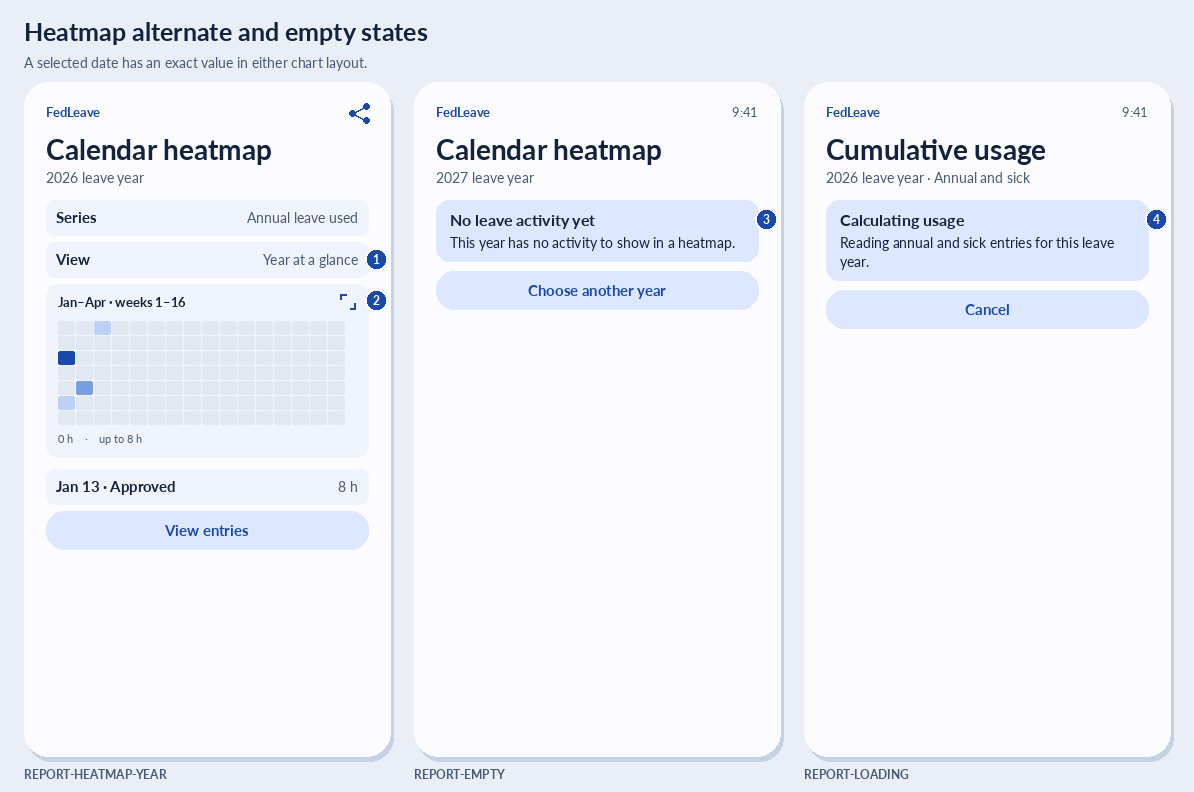
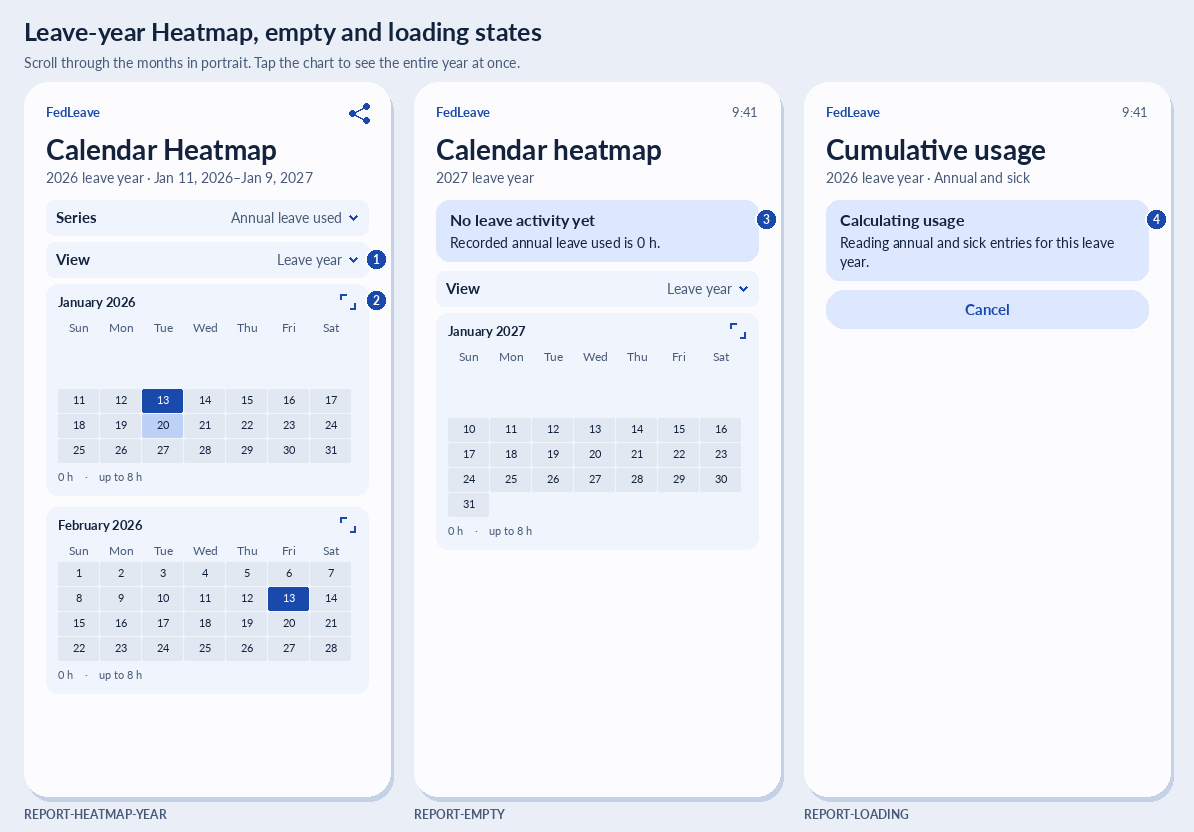
Add Analytics history mockups and full leave-year Heatmap views
Show one, six and eleven months in Seasonality and Cumulative Usage. Keep the reporting cutoff and full-year axis, and distinguish recorded zeroes from later dates and scheduled data.

Show every ledger date in one landscape Heatmap, including the partial months and following January. Use scrollable month grids in portrait, with direct landscape entry where portrait is too narrow. Add annotated views and acceptance for both 26- and 27-period years.

Verified six history examples, 10, 52 and 94 recorded hours, and a 3-hour scheduled variant against the desktop computations.

diff --git a/android/specification/artwork/mockups/render.py b/android/specification/artwork/mockups/render.py
@@ -2,6 +2,7 @@
 
 import argparse
 import json
+from datetime import date, timedelta
 from functools import lru_cache
 from pathlib import Path
 
@@ -324,9 +325,14 @@ class Screen:
         plot_height = height - 61
         values = item["values"]
         ticks = item.get("ticks")
-        scale = max(ticks or values) or 1
+        scale_values = ticks or [value for value in values if value is not None]
+        scale = max(scale_values, default=0) or 1
         if ticks:
             start = self.left + 44
+        if (cutoff := item.get("shade_after")) is not None:
+            cutoff_x = start + (end - start) * cutoff
+            self.draw.rectangle((cutoff_x, base - plot_height, end, base), fill="#E2E8F3")
+        if ticks:
             for tick in ticks:
                 tick_y = base - tick * plot_height / scale
                 self.draw.line((start, tick_y, end, tick_y), fill=LINE, width=1)
@@ -345,9 +351,14 @@ class Screen:
                     (current[0], previous[1]), current,
                 )]]
             self.draw.line(points, fill=PRIMARY, width=3, joint="curve")
+            if item.get("mark_endpoint"):
+                x, value_y = points[-1]
+                self.draw.ellipse((x - 4, value_y - 4, x + 4, value_y + 4), fill=PRIMARY, outline=SURFACE)
         else:
             step = (end - start) / len(values)
             for index, value in enumerate(values):
+                if value is None:
+                    continue
                 x = start + index * step + 5
                 selected = index == item.get("selected")
                 self.box(x, base - value * plot_height / scale, x + step - 10, base,
@@ -393,6 +404,45 @@ class Screen:
         self.text(self.left + 12, legend_y, "0 h    ·    up to 8 h", 11, MUTED)
         self.mark(item.get("note"), y + 16)
         self.cursor = legend_y + 37
+
+
+    def year_heatmap(self, item):
+        start, end = date.fromisoformat(item["start"]), date.fromisoformat(item["end"])
+        first_weekday = item.get("first_weekday", 6)
+        first_week = start - timedelta(days=(start.weekday() - first_weekday) % 7)
+        weeks = (end - first_week).days // 7 + 1
+        y = self.cursor
+        grid_left, grid_right, grid_top = self.left + 40, self.inner_right - 12, y + 45
+        week_width = (grid_right - grid_left) / weeks
+        row_height = 24
+        legend_y = grid_top + 7 * row_height + 9
+        colors = ("#E1E8F2", "#BDD1F6", "#789FDE", PRIMARY)
+        self.box(self.left, y, self.inner_right, legend_y + 22, "#F0F4FC", 12)
+        self.text(self.left + 12, y + 9, item["text"], 13, bold=True)
+        weekdays = ("Mon", "Tue", "Wed", "Thu", "Fri", "Sat", "Sun")
+        for row in range(7):
+            label = weekdays[(first_weekday + row) % 7]
+            self.text(grid_left - 8, grid_top + row * row_height + 11, label, 11, MUTED, anchor="rm")
+        for offset in range((end - start).days + 1):
+            day = start + timedelta(days=offset)
+            week, row = divmod((day - first_week).days, 7)
+            x = grid_left + week * week_width
+            cell_y = grid_top + row * row_height
+            if day == start or day.day == 1:
+                month = day.strftime("%b")
+                if day.month == 1:
+                    month = day.strftime("%b ’%y")
+                label_x = min(x + 2, grid_right - 38)
+                self.text(label_x, grid_top - 13, month, 10, MUTED, anchor="lm")
+            level = item["activity"].get(day.isoformat(), 0)
+            self.box(x, cell_y, x + week_width - 1, cell_y + row_height - 2, colors[level], 2)
+            if day.isoformat() == item["selected"]:
+                self.draw.rounded_rectangle(
+                    (x, cell_y, x + week_width - 1, cell_y + row_height - 2), 2, outline=INK, width=2,
+                )
+        self.text(self.left + 12, legend_y, "0 h    ·    up to 8 h", 11, MUTED)
+        self.mark(item.get("note"), y + 17)
+        self.cursor = legend_y + 31
 
 
 def render_board(board, font_dir, destination):

diff --git a/android/specification/chapters/03-reports-data/03-02-report-screens.md b/android/specification/chapters/03-reports-data/03-02-report-screens.md
@@ -29,17 +29,35 @@ Reports is a phone destination with a year selector and report list. Keep intera
 
 | Callout | Interaction and states | Requirements |
 | --- | --- | --- |
-| 1–2 | Heatmap offers monthly grids and the year-at-a-glance strip. Tap the chart to expand it, then select a cell to read its exact date and value. Keep the exact rows accessible from the report. | `REP-HEAT-01` |
+| 1–2 | Heatmap offers a full leave-year view and a focused month view. Tap the chart to expand it, then select a cell to read its exact date and value. Keep the exact rows accessible from the report. | `REP-HEAT-01` |
 | 3 | List or select multiple absence categories. View exact cumulative daily entries. Preserve the whole-year extent and show the time context. | `REP-CUM-01` |
 | 4 | Choose from the six balance series. A period point label includes its end date and balance. The exact table is navigable independently of the chart. | `REP-CHART-01` |
 | 5–6 | Keep the selected month and day visible and list the date actually mapped into each comparison year. Provide the seven supported category choices. | `REP-YOY-01` |
 
-![Year-at-a-glance heatmap, an empty report, and a calculation with cancel](../../artwork/mockups/reports-heatmap-states.png)
+![Portrait leave-year Heatmap with multiple months, a zero-activity year, and a calculation with cancel](../../artwork/mockups/reports-heatmap-states.png)
 
 | Callout | Interaction and states | Requirements |
 | --- | --- | --- |
-| 1–2 | The full-year strip scrolls horizontally on compact phones with a spoken week and date. The example shows its first viewport. Both layouts provide the same data and details. | `REP-HEAT-01` |
-| 3–4 | Distinguish no activity from a read problem and offer another year. Cancel a pending calculation without clearing the selected categories. Older results cannot overwrite the current selection. | `REP-SUM-01`, `REP-HEAT-01`, `REP-CUM-01` |
+| 1–2 | The portrait leave-year view scrolls through month grids. The example shows January and February. Tap a month grid to open the full-year landscape layout. | `REP-HEAT-01` |
+| 3–4 | A validated year with zero activity still shows its dates. A read problem uses the unavailable state. Cancel a pending calculation without clearing the selected categories. Older results cannot overwrite the current selection. | `REP-SUM-01`, `REP-HEAT-01`, `REP-CUM-01` |
+
+### Entire leave year in the Heatmap
+
+![Landscape Heatmap with every day from January 11, 2026 to January 9, 2027 visible and the last day selected](../../artwork/mockups/reports-heatmap-year-landscape.png)
+
+| Callout | Interaction |
+| --- | --- |
+| 1 | Back returns to the original report or portrait Heatmap. Preserve the selected year, series, date and scroll position. |
+| 2 | Show one cell for each day in the selected leave year, including the first and last days. Columns are weeks and rows are weekdays, respecting the user's first-weekday setting. The full-width grid shows all weeks at once on a supported landscape phone. Label month boundaries, including the year where January appears twice. |
+| 3 | Tapping a cell shows its exact calendar date and hours. **Choose date** provides a standard Android date picker with a 48 dp target for precise selection. **View entries** opens matching source rows. |
+
+**Leave year** is the default. In a usable portrait window, stack all month grids chronologically and scroll them vertically. Include partial months at both ends. **Month** remains available for inspecting a single month. Tap any month grid while Leave year is active to open the landscape overview of the whole year and retain the current series and date context.
+
+On a portrait window that cannot fit seven day columns at 36 dp each, or when text scaling causes labels to clip, open the full-screen landscape year directly. Back from that direct entry returns to the originating report destination. When Android does not grant landscape, use the full available window with scrollable month grids or a full-width date list for a narrower window. Each date and exact value remains reachable. The portrait month grids are whole-chart buttons. The exact date picker and values view provide full-sized accessible controls for selecting individual dates from the overview.
+
+Generate date cells from the stored inclusive start and end dates, including the part of a leave year that falls in the next calendar year. Compute the number of columns from the actual bounds and first weekday. Leave padding before the first and after the last date blank. For a valid zero-activity year, show a zero-valued year grid using annual leave used as the default series. Keep missing or unreadable content in the existing unavailable state.
+
+Rebuild the landscape year board with `python android/specification/artwork/mockups/render.py android/specification/artwork/mockups/reports-heatmap-year.json`.
 
 ## Full-screen charts
 
@@ -59,13 +77,33 @@ Reports is a phone destination with a year selector and report list. Keep intera
 | 2 | Redraw the chart across the landscape app window below the title. Keep the timeframe, units, labels, selected series and filters. The expanded chart replaces bottom navigation while open. | `REP-EXPAND-01` |
 | 3 | Select a bar, point, or heatmap cell in the expanded chart to read its exact value. **View entries** opens matching source rows where the report supports them. Back from the rows returns to the chart and its selected point. | `REP-EXPAND-01`, `REP-HEAT-01`, `REP-SEA-01` |
 
-Use the same expansion action for Seasonality, monthly and year-at-a-glance Heatmaps, lifecycle plots, Cumulative Usage, balance charts and yearly comparison. A successful plotted result enables the action. Loading or unavailable states keep their existing message and recovery. Reuse the current result identity and selection in the expanded route. Rotation, Back and window resizing must keep the view's state and must not reset filters or issue duplicate computations. The chart is read-only.
+Use the same expansion action for Seasonality, focused-month and leave-year Heatmaps, lifecycle plots, Cumulative Usage, balance charts and yearly comparison. A successful plotted result enables the action. Loading or unavailable states keep their existing message and recovery. Reuse the current result identity and selection in the expanded route. Rotation, Back and window resizing must keep the view's state and must not reset filters or issue duplicate computations. The chart is read-only.
 
 The expanded route receives the initiating report's result key, selected chart and point key, and the return scroll anchor. Keep the result in the report state holder across configuration changes. The expanded route requests landscape by applying `SCREEN_ORIENTATION_SENSOR_LANDSCAPE` while it owns the chart screen. Save the prior requested orientation, then restore it when leaving for the report. Source entries opened from the chart keep the chart route and selection on the back stack.
 
 On a supported full-screen phone, request landscape for the lifetime of the expanded route, so a portrait report turns 90° when opened. Fill the available app window on either landscape side and keep Android system Back and safe insets accessible. On a device or window that ignores the request, lay out the same full-screen view in the available orientation. Preserve the Back arrow, chart and exact values in that fallback. [Android orientation request](https://developer.android.com/reference/android/app/Activity#setRequestedOrientation(int)) · [Android adaptive layouts](https://developer.android.com/about/versions/16/behavior-changes-16#adaptive-layouts)
 
 Rebuild the expanded chart boards with `python android/specification/artwork/mockups/render.py android/specification/artwork/mockups/reports-expanded.json`.
+
+## Analytics with one, six, or eleven months
+
+![Three Seasonality screens showing one, six, and eleven months of recorded activity on the same monthly axis](../../artwork/mockups/reports-seasonality-history.png)
+
+![Three Cumulative Usage screens showing the same three reporting cutoffs](../../artwork/mockups/reports-cumulative-history.png)
+
+| Callout on each board | Reporting cutoff | Expected recorded annual leave used |
+| --- | --- | ---: |
+| 1 | January 31, 2026 | 10 h |
+| 2 | June 30, 2026 | 52 h |
+| 3 | November 30, 2026 | 94 h |
+
+Use the same synthetic leave year, selected category and chart scales in the three examples. The first and last month labels are January 2026 and January 2027. Show the year on accessible month labels and on exact values. Each example is a separate case with a different local reporting date. The app still uses its existing leave-year and category selectors. [Synthetic transactions and acceptance](../../verification/acceptance-tests.md#analytics-history-fixture)
+
+- **Seasonality.** Keep the calendar-month positions of the selected leave year. Show an actual recorded zero where an elapsed month has no matching usage, as in March. Shade months after the cutoff and leave their recorded bars empty. Identify the shaded area in visible and spoken text. Include any effective future scheduled values with their distinct series and status.
+- **Cumulative Usage.** Keep the horizontal axis on the stored leave-year bounds. Stop the recorded line at the actual cutoff and label its last value. In these fixtures there is no future activity. When future scheduled entries exist, distinguish their cumulative portion and its exact data from the recorded line. Preserve the source report's full-year calculation and values.
+- Use the same cutoff, values, units, and recorded/scheduled distinction in the portrait and expanded charts, the exact table, and the relevant shared artifact. An unavailable dataset uses the existing report warning or unavailable state. Apply the [full-screen chart behavior](#full-screen-charts) to all examples.
+
+Rebuild the examples with `python android/specification/artwork/mockups/render.py android/specification/artwork/mockups/reports-history.json`.
 
 ## Month preview and Share
 

diff --git a/android/specification/verification/acceptance-tests.md b/android/specification/verification/acceptance-tests.md
@@ -113,14 +113,26 @@ Use the fixed-date Calendar and accrual fixtures for balance views. Use the refe
 | --- | --- | --- |
 | `T-REP-SUM-01` | Use the reference fixture with 8 h approved annual, 4 h future planned annual and 20 h denied annual. Change year and inject a failed refresh. | Recorded annual usage is 8 h, future 4 h and full-year 12 h. Legend explains planned status. A failed or obsolete load leaves the selected year explicit with retry or unavailable state. |
 | `T-REP-SEA-01` | Load the Calendar fixture at Jan 16, then switch Month → Weekday → Pay Period. Use the genuine-credit and carried-credit reference fixture and try the two analyses that use no leave filter. Open a sorted row's supporting entries. | January default shows 10 h recorded and 7 h scheduled. Grouping conserves the same selected totals. Carried credit adds no new earnings. All Leave Used excludes FMLA. Overtime and net accumulation disable the leave choice and restore it upon return. Drill-down matches the selected and sorted row. |
-| `T-REP-HEAT-01` | Load the Calendar fixture, open each layout, tap to expand, find Jan 13, change series, and open a year with zero heatmap activity. | Jan 13 is 8 h in both layouts and identifies the source record. Selectors exclude zero-activity series. A touch or TalkBack selection yields a labeled date and value. An empty year has a readable empty state. |
+| `T-REP-HEAT-01` | Load the Calendar fixture and open the default leave-year Heatmap. Scroll between months in portrait, tap to expand the full year, and find Jan 13. Verify Jun 30 and both leave-year endpoints with the exact date control. Repeat with a 27-period schedule, Monday first weekday, the month-only view, a narrow portrait window, and a valid year with zero activity. | Jan 13 reads 8 h in both layouts and identifies the source record. The landscape overview includes exactly 364 or 378 dated cells as applicable, starting and ending on stored dates, with the following January included. Padding dates are blank. Portrait has all months reachable, the narrow-window path opens landscape directly when allowed, and the supported constrained-window fallback keeps every date accessible. A valid zero-activity year shows zeroes. Touch, date picker and TalkBack expose exact date and value. |
 | `T-REP-LIFE-01` | Use the fixture from `test_comp_lifecycle_reconciles_and_uses_matured_lots_only`. Cycle through all seven views and inspect a monthly comp row and an allocation. | Hours and source IDs agree with the reference in the table and graphic. Keeping future scheduled hours separate and excluding immature lots reproduces the performance result. |
 | `T-REP-CUM-01` | Use the Calendar fixture and add separate FMLA tracking and 2 h sick use. Calculate annual alone and then annual plus sick. Change category while a calculation is pending. | Annual reaches 17 h and the explicit annual-plus-sick sum reaches 19 h. Each row matches its date and transaction contributors. The final selection cannot receive an older result. |
 | `T-REP-CHART-01` | Open annual, sick and the other four supported balance categories. Compare the first date and figures against the Calendar fixture's period ending Jan 24. | Annual and sick points are 92 h and 24 h at Jan 24. The horizontal labels and exact table use period ends. The graph identifies the category and year. A zero or unavailable series is explicit. |
 | `T-REP-YOY-01` | Initialize 2024 and 2025 with annual openings of 20 h and 30 h and zero annual accrual. Record 1 h annual use on Feb 29, 2024 and 2 h on Feb 28, 2025. Select Feb 29 in the comparison. | Show 19 h for Feb 29, 2024 and 28 h for Feb 28, 2025. Switching between the seven supported categories updates the value and label. |
+| `T-REP-HISTORY-01` | Run Seasonality and Cumulative Usage on the three [history fixtures](#analytics-history-fixture). Compare each portrait chart to the mockups and check the matching chart full-screen. In a separate June copy add a planned annual use of 3 h on Jul 13. | The recorded totals are 10, 52, and 94 h at the three cutoffs. March is a recorded 0 h in the June and November cases. Later months and dates retain their axis positions, and the chart distinguishes them from recorded zero. In the June variant, recorded total stays 52 h, scheduled becomes 3 h, the full-year total becomes 55 h, and Jul 13 links to its planned entry. Rotation preserves the plotted values and cutoff. |
 | `T-REP-EXPAND-01` | Open a filtered Seasonality chart on a portrait phone with auto-rotate disabled and tap the chart. In landscape select June in the mockup fixture. Open its entries and return. Test visible and system Back, reopening after rotation and a window that ignores orientation requests. Repeat chart entry for each chart family, including both Heatmap layouts. Run TalkBack and large text. | The chart fills the landscape app window and shows the same year, filters and values. June reads 12 h and opens those entries. Back from entries keeps June selected. The visible Back arrow and system Back return to the initiating report with prior orientation policy, filters, scroll and focus intact. Constrained windows show an adapted full-screen chart and Back. No ledger writes or duplicate calculations occur. |
 | `T-REP-MONTH-01` | Preview January with the Calendar fixture and use top-right Share to select formats. Cancel one Sharesheet handoff. | The zoomable preview matches the desktop month page. PDF and PNG use that report. Cancellation preserves the preview and data. |
 | `T-REP-SHARE-01` | Select a report, apply a filter and use the upper-right Share icon as PNG and PDF. Inspect the files in a test receiving app, then cancel another share. | Android Sharesheet receives a readable artifact of the current report with the correct format, labels, and values. Cancellation preserves report selection and ledger bytes. No underlying data archive is shared by this action. |
+
+### Analytics history fixture
+
+Use the same 26-period leave year from Jan 11, 2026 through Jan 9, 2027 in three independent disposable stores. The selected category is annual leave used. Enter the first 1, 6, or 11 months from the table. For each positive month, record up to 8 h approved use on the 13th and any remainder on the 20th. Create no usage row for a zero month. Freeze the local clock to the final calendar day of the last represented month.
+
+| Calendar month in 2026 | Jan | Feb | Mar | Apr | May | Jun | Jul | Aug | Sep | Oct | Nov |
+| --- | ---: | ---: | ---: | ---: | ---: | ---: | ---: | ---: | ---: | ---: | ---: |
+| Monthly annual hours used | 10 | 8 | 0 | 16 | 6 | 12 | 4 | 10 | 8 | 14 | 6 |
+| Cumulative annual hours used | 10 | 18 | 18 | 34 | 40 | 52 | 56 | 66 | 74 | 88 | 94 |
+
+Each base fixture has zero scheduled usage after its reporting date. Compare monthly recorded hours and the running total at the cutoff to the desktop calculations. The full-year axis includes the partial January 2027 bucket. [Seasonality series](../../../src/fedleave_analytics/seasonality.py#L136) · [Cumulative series](../../../src/fedleave/usage_comparison.py#L40) · [Annotated coverage boards](../chapters/03-reports-data/03-02-report-screens.md#analytics-with-one-six-or-eleven-months)
 
 ## Data and preferences acceptance
 

diff --git a/android/specification/chapters/03-reports-data/03-01-reports-data-and-preferences.md b/android/specification/chapters/03-reports-data/03-01-reports-data-and-preferences.md
@@ -10,11 +10,12 @@ Reports opens on a useful year and shows that leave year and its actual dates. A
 | --- | --- |
 | `REP-SUM-01` | Summary includes physical leave usage, overtime, comp and credit activity, visible categories and data-quality warnings. Show recorded-through-Today, future scheduled, and full-year values where the reference reports them. Distinguish recorded hours from actual attendance. [Analytics overview](../../../../README.md#companion-application-fedleaveanalytics) · [Calculation](../../../../src/fedleave_analytics/analytics.py#L234) |
 | `REP-SEA-01` | Seasonality defaults to **Leave Used by Month** and **All Leave Used**. Month, weekday and actual pay period allow selecting use or genuine new credits by category, including supported choices with zero activity. **Overtime Worked by Month** and **Net Leave Accumulation by Month** disable the leave type choice and preserve it for return. Preserve source-backed warnings, distinct future use and future credit labels, PPL credit and use, and FMLA tracking. Opening records, rollover lots and adjustments are excluded from new earnings. [Desktop selector contract](../../../../README.md#seasonality) · [Series builder](../../../../src/fedleave_analytics/seasonality.py) |
-| `REP-HEAT-01` | Calendar Heatmap lists series with nonzero data, with year-at-a-glance and monthly grids. Each selected cell exposes date, numeric value and supporting activity. Preserve separate earned and used series and a meaningful absence legend at large text sizes. [Desktop Heatmap](../../../../src/fedleave_analytics/app.py#L480) |
+| `REP-HEAT-01` | Calendar Heatmap defaults to the whole stored leave year with a focused-month option. Show nonzero series when present, with a zero-valued annual series in a validated empty year. Show every leave-year date in portrait month grids or in a single landscape week grid. Each selected cell exposes date, numeric value and supporting activity. Preserve separate earned and used series and a meaningful absence legend at large text sizes. [Full-year Heatmap screens](03-02-report-screens.md#entire-leave-year-in-the-heatmap) · [Desktop Heatmap](../../../../src/fedleave_analytics/app.py#L480) |
 | `REP-LIFE-01` | Lifecycle reports include summary, comp lots, allocation details, expiration performance, monthly overtime/comp/credit, monthly comp and monthly credit. Carry through earned, used, paid out, forfeited, expired and outstanding values wherever present, including separate recorded and scheduled views. Preserve lot/source drill-downs and calculate matured-lot performance from the reference population. [Desktop lifecycle views](../../../../src/fedleave_analytics/app.py#L516) · [Lot arithmetic](../../../../src/fedleave_analytics/analytics.py#L112) |
 | `REP-CUM-01` | Cumulative Usage defaults to annual and can sum explicitly selected absence categories. Calculate running effective used hours over the entire leave year, including effective scheduled entries. Exclude non-absence activity including overtime and FMLA tracking. Show exact data and contributing entries. Scope each asynchronous result to the chosen year and category set. [Cumulative Usage](../../../../README.md#cumulative-usage) · [Calculation](../../../../src/fedleave/usage_comparison.py) |
 | `REP-CHART-01` | Balance charts for annual, sick, credit, comp, travel comp, and time-off awards show dated points at each stored period end. Make the full set available through one chart workflow with a category selector. [Calendar chart list](../../../../src/fedleave_gui/main_window.py#L89) · [Point builder](../../../../src/fedleave/charting.py#L261) |
 | `REP-YOY-01` | Calendar compares annual, sick, credit, comp, travel comp, time-off award, and overtime using the same month and day in each stored year. A Feb 29 selection maps to Feb 28 in a nonleap year. Show each point's actual date and series units. Include a table and an explained empty state. [Comparison point builder](../../../../src/fedleave/charting.py#L417) |
+| `REP-HISTORY-01` | Seasonality and Cumulative Usage keep the full leave-year date context as recorded activity accumulates. Show the recording cutoff and distinguish recorded zeroes, future scheduled activity, and unavailable data. [One-, six-, and eleven-month mockups](03-02-report-screens.md#analytics-with-one-six-or-eleven-months) |
 | `REP-EXPAND-01` | Tapping any plotted Analytics chart opens a dedicated full-screen view in landscape on phones that support the orientation request. An upper-left Back arrow restores the report and its state. Select individual values in the expanded chart or open the exact table from the report. [Expanded chart screens](03-02-report-screens.md#full-screen-charts) |
 | `REP-MONTH-01` | Month preview uses the desktop Calendar landscape page with calendar, pay-period tables, balances and abbreviations. Share from the report offers PDF or PNG. Calendar's top-right icon shares that same month PDF directly, and its menu opens the preview. Raw SVG stays in desktop tooling. [Calendar PDF reference](../../../../src/fedleave_gui/main_window.py#L2234) · [Month image formats](../../../../src/fedleave_month_report_graphic/report.py#L186) |
 | `REP-SHARE-01` | Desktop charts can save PNG, save PDF or print. Share the chart or report the user is viewing, with its selected dates, labels, legend, and values, using the Android Sharesheet. Keep the canonical ledger private. Temporary share copies, file types and cleanup are specified in the storage milestone. [Desktop chart outputs](../../../../src/fedleave_gui/chart_windows.py) · [Sharing issue #148](https://github.com/joshua-guthrie/fedleave/issues/148) |

diff --git a/android/specification/verification/feature-parity.md b/android/specification/verification/feature-parity.md
@@ -55,11 +55,12 @@ The [ledger requirements](../chapters/02-ledger/02-01-ledger-and-leave-years.md)
 | --- | --- | --- | --- | --- | --- |
 | `REP-SUM-01` | Analytics **Summary** and global year, refresh and data-quality notices. | Reports home and year summary with recorded, scheduled and full-year context. | [REPORTS-HOME](../artwork/mockups/reports-home.png), [REPORT-SUMMARY](../artwork/mockups/reports-home.png) | [T-REP-SUM-01](acceptance-tests.md#reports-acceptance) | — |
 | `REP-SEA-01` | **Seasonality** supports five analyses and category/activity choices for three groupings. | Analysis and leave type controls over a chart and exact table. | [REPORT-SEASONALITY](../artwork/mockups/reports-breakdowns.png), [REPORT-FILTERS](../artwork/mockups/reports-breakdowns.png), [REPORT-ENTRIES](../artwork/mockups/reports-breakdowns.png) | [T-REP-SEA-01](acceptance-tests.md#reports-acceptance) | — |
-| `REP-HEAT-01` | **Calendar Heatmap** has nonzero data selectors and year and month layouts. | Both layouts with date details, exact values and source entries. | [REPORT-HEATMAP](../artwork/mockups/reports-charts.png), [REPORT-ENTRIES](../artwork/mockups/reports-breakdowns.png) | [T-REP-HEAT-01](acceptance-tests.md#reports-acceptance) | Compact layout for year view. |
+| `REP-HEAT-01` | **Calendar Heatmap** has nonzero data selectors and year and month layouts. | Entire leave year on one landscape screen, with scrollable month grids in portrait and focused month available. Each date has exact values and source entries. | [REPORT-HEATMAP](../artwork/mockups/reports-charts.png), [REPORT-HEATMAP-YEAR](../artwork/mockups/reports-heatmap-states.png), [REPORT-HEATMAP-YEAR-FULLSCREEN](../artwork/mockups/reports-heatmap-year-landscape.png), [REPORT-ENTRIES](../artwork/mockups/reports-breakdowns.png) | [T-REP-HEAT-01](acceptance-tests.md#reports-acceptance) | [Layout rules](../chapters/03-reports-data/03-02-report-screens.md#entire-leave-year-in-the-heatmap). |
 | `REP-LIFE-01` | **Overtime, Comp, and Credit** has seven summary, lot, performance and monthly views. | Lifecycle report with an analysis selector, table and source details. | [REPORT-LIFECYCLE](../artwork/mockups/reports-breakdowns.png), [REPORT-ENTRIES](../artwork/mockups/reports-breakdowns.png) | [T-REP-LIFE-01](acceptance-tests.md#reports-acceptance) | — |
 | `REP-CUM-01` | **Cumulative Usage** charts selected absence categories across one leave year. | Chart and table for one category or an explicit sum. | [REPORT-CUMULATIVE](../artwork/mockups/reports-charts.png), [REPORT-FILTERS](../artwork/mockups/reports-breakdowns.png), [REPORT-ENTRIES](../artwork/mockups/reports-breakdowns.png) | [T-REP-CUM-01](acceptance-tests.md#reports-acceptance) | — |
 | `REP-CHART-01` | Calendar offers six category balance charts. | One report workflow for the six series at period-end cutoffs. | [REPORT-BALANCE-CHART](../artwork/mockups/reports-charts.png), [REPORT-FILTERS](../artwork/mockups/reports-breakdowns.png) | [T-REP-CHART-01](acceptance-tests.md#reports-acceptance) | — |
 | `REP-YOY-01` | Calendar and chart tools compare seven category values as of a chosen month/day across years. | Comparison chart and dated table with a category and date selector. | [REPORT-YEARLY](../artwork/mockups/reports-charts.png), [REPORT-FILTERS](../artwork/mockups/reports-breakdowns.png) | [T-REP-YOY-01](acceptance-tests.md#reports-acceptance) | — |
+| `REP-HISTORY-01` | Desktop Seasonality reports through-cutoff and future hours. Cumulative Usage exposes an exact daily curve across the leave year. | Visualize short and long recorded histories with a clear date cutoff and complete year context. | [REPORT-SEASONALITY-01-MONTHS](../artwork/mockups/reports-seasonality-history.png), [REPORT-SEASONALITY-06-MONTHS](../artwork/mockups/reports-seasonality-history.png), [REPORT-SEASONALITY-11-MONTHS](../artwork/mockups/reports-seasonality-history.png), [REPORT-CUMULATIVE-01-MONTHS](../artwork/mockups/reports-cumulative-history.png), [REPORT-CUMULATIVE-06-MONTHS](../artwork/mockups/reports-cumulative-history.png), [REPORT-CUMULATIVE-11-MONTHS](../artwork/mockups/reports-cumulative-history.png) | [T-REP-HISTORY-01](acceptance-tests.md#reports-acceptance) | — |
 | `REP-EXPAND-01` | Desktop reports have room for large interactive graphs. | Tap any plotted chart to expand it across a landscape phone screen. Back returns to the same report. | [REPORT-CHART-EXPAND-ENTRY](../artwork/mockups/reports-chart-expand-entry.png), [REPORT-CHART-FULLSCREEN](../artwork/mockups/reports-chart-fullscreen.png), [REPORT-HEATMAP-FULLSCREEN](../artwork/mockups/reports-heatmap-fullscreen.png) | [T-REP-EXPAND-01](acceptance-tests.md#reports-acceptance) | [Orientation and accessibility](../chapters/03-reports-data/03-02-report-screens.md#full-screen-charts). |
 | `REP-MONTH-01` | Calendar preview, print and PDF, plus PNG and SVG in the command-line companion. | The desktop month page in a zoomable preview, Share as PDF or PNG from Reports. | [REPORT-MONTH](../artwork/mockups/reports-share.png), [SHARE-REPORT](../artwork/mockups/reports-share.png), [ANDROID-SHARESHEET](../artwork/mockups/reports-share.png) | [T-REP-MONTH-01](acceptance-tests.md#reports-acceptance) | Keep raw SVG in the desktop command-line companion. |
 | `REP-SHARE-01` | Chart windows save graphics and PDF or print. | Share the active filtered report via the Android Sharesheet. | [SHARE-REPORT](../artwork/mockups/reports-share.png), [ANDROID-SHARESHEET](../artwork/mockups/reports-share.png) | [T-REP-SHARE-01](acceptance-tests.md#reports-acceptance) | — |

diff --git a/android/implementation/briefs/milestone-inputs.md b/android/implementation/briefs/milestone-inputs.md
@@ -32,8 +32,8 @@ For report briefs, bind filters to a date-tagged typed result and identify data 
 
 | Milestone | Read before writing the brief | Checks and handoff |
 | --- | --- | --- |
-| I13 · Initial report families | [Report screens](../../specification/chapters/03-reports-data/03-02-report-screens.md) · [Desktop Seasonality](../../../src/fedleave_analytics/seasonality.py) | `T-REP-SUM-01`, `T-REP-SEA-01`, `T-REP-HEAT-01`, `T-REP-EXPAND-01`. Hand off the shared expanded route with state, orientation and source-detail checks. Use the [Reports fixture](../../specification/verification/acceptance-tests.md#reports-acceptance). Establish the filtered snapshot, report routing and source-row link. |
-| I14 · Time series and lifecycle | [Charts and lifecycle states](../../specification/chapters/03-reports-data/03-02-report-screens.md#heatmap-usage-and-balance-charts) · [Desktop report calculations](../../../src/fedleave_analytics/analytics.py) | `T-REP-LIFE-01`, `T-REP-CUM-01`, `T-REP-CHART-01`. Record the expected series data and filters separately from chart drawing. Verify selected values and accessible source labels. |
+| I13 · Initial report families | [Report screens](../../specification/chapters/03-reports-data/03-02-report-screens.md) · [Desktop Seasonality](../../../src/fedleave_analytics/seasonality.py) | `T-REP-SUM-01`, `T-REP-SEA-01`, `T-REP-HEAT-01`, `T-REP-EXPAND-01`. Hand off the shared expanded route with state, orientation and source-detail checks. Use the [Reports fixture](../../specification/verification/acceptance-tests.md#reports-acceptance). Establish the filtered snapshot, report routing and source-row link. Run the Seasonality cases in [T-REP-HISTORY-01](../../specification/verification/acceptance-tests.md#analytics-history-fixture). |
+| I14 · Time series and lifecycle | [Charts and lifecycle states](../../specification/chapters/03-reports-data/03-02-report-screens.md#heatmap-usage-and-balance-charts) · [Desktop report calculations](../../../src/fedleave_analytics/analytics.py) | `T-REP-LIFE-01`, `T-REP-CUM-01`, `T-REP-CHART-01`. Record the expected series data and filters separately from chart drawing. Verify selected values and accessible source labels. Run the Cumulative Usage cases in [T-REP-HISTORY-01](../../specification/verification/acceptance-tests.md#analytics-history-fixture). |
 | I15 · Comparison and Android Share | [Calendar PDF reference](../../specification/chapters/01-calendar/01-05-menu-and-pdf.md#share-the-displayed-month) · [Sharing lifecycle](../../specification/chapters/04-architecture/04-02-device-storage.md#artifact-sharing-and-lifecycle) | `T-REP-YOY-01`, `T-REP-MONTH-01`, `T-REP-SHARE-01`, `T-CAL-SHARE-01`. Verify the displayed month handoff with a handset, real receiver and rendered file. Connect and verify final Calendar toolbar and menu. Record shared artifact and expiry behavior for I16. |
 | I16 · Share backup | [Portable archive](../../specification/chapters/04-architecture/04-02-device-storage.md#portable-fedleave-archive) · [Desktop archive implementation](../../../src/fedleave/exporting.py) | `T-DATA-SHARE-01` and Android-to-desktop GUI checks. Record archive members, MIME type and exact reference builds and hand I17 the same fixture and validator contract. |
 | I17 · Restore backup | [Restore review](../../specification/chapters/04-architecture/04-02-device-storage.md#restore-review) · [Storage and fault cases](../../specification/verification/acceptance-tests.md#storage-and-interchange-acceptance) | `T-DATA-RESTORE-01`. Isolate preview, collision decision and publication tasks. Evidence covers schema and IDs, cancellation, interrupted write recovery, and both directions with both desktop GUIs. |

diff --git a/android/specification/chapters/06-delivery/06-02-implementation-milestones.md b/android/specification/chapters/06-delivery/06-02-implementation-milestones.md
@@ -20,8 +20,8 @@ Start each milestone or subset with a [self-contained implementation brief](../0
 | I10. Maintenance and reconciliation | I07–I09 | Start with a linked-chain preview and recovery. In a separate checkpoint add opening repair, force balance and annual and sick accrual rates if the work needs a split. Verify reviewed generations and source updates with the ledger cases. |
 | I11. Expirations and lot extensions | I07–I10 | Implement expiration list and thresholds, lot history, and eligible extensions. Verify inclusive deadlines, warning and disposition, and repeat reads. Link reminders to lot detail. |
 | I12. PPL, FMLA, and accounting preferences | I09–I11 | Implement grant/use and overlapping-window behavior, review additional FMLA, history and tour settings, and unknown capacity. Run the parental fixture cases with legacy compatibility. Split settings from parental flows if needed. |
-| I13. Report list, summary, Seasonality and Heatmap | I05, I09 | Implement report navigation, year selection and coherent data, then the date and category filters with accessible source details. Add the shared full-screen chart route as a separate I13 checkpoint. Pass `T-REP-EXPAND-01` for the delivered chart types and repeat it as I14 and I15 add chart families. Verify all three report families and late or cancelled results. |
-| I14. Lifecycle, cumulative and balance charts | I11–I13 | Implement lifecycle in one checkpoint if needed and cumulative and balance report families in the next. Cross-check charts and tables with golden fixtures. |
+| I13. Report list, summary, Seasonality and Heatmap | I05, I09 | Implement report navigation, year selection and coherent data, then the date and category filters with accessible source details. Add the shared full-screen chart route as a separate I13 checkpoint. Pass `T-REP-EXPAND-01` for the delivered chart types and repeat it as I14 and I15 add chart families. Verify all three report families and late or cancelled results. Run the Seasonality half of `T-REP-HISTORY-01`. |
+| I14. Lifecycle, cumulative and balance charts | I11–I13 | Implement lifecycle in one checkpoint if needed and cumulative and balance report families in the next. Cross-check charts and tables with golden fixtures. Run the Cumulative Usage half of `T-REP-HISTORY-01`. |
 | I15. Yearly comparison, month view and Share | I13–I14 | Implement leap-date mapping, desktop-equivalent month PDF and image rendering, and top-right Share. Wire Calendar's direct PDF attachment handoff and verify `T-CAL-SHARE-01` and the report cases on a handset. [Calendar PDF reference](../01-calendar/01-05-menu-and-pdf.md#share-the-displayed-month) |
 | I16. Compatible backup sharing | I04, I15 | Serialize canonical data into the desktop archive envelope under **Share backup**. Verify MIME, contents and the Android-to-desktop GUI directions with synthetic data. |
 | I17. Restore and recovery | I04, I06, I16 | Use file picker, merge/replace, reviewed candidate publication and recovery. Run all four desktop GUI directions and fault cases. An independent checkpoint may cover the Windows GUI fixture once a runner or tester is available. |

diff --git a/passdown.md b/passdown.md
@@ -12,6 +12,8 @@ During new independent leave-year setup, choose balances at the start of the yea
 
 Analytics charts open a [full-screen landscape view](android/specification/chapters/03-reports-data/03-02-report-screens.md#full-screen-charts) when tapped. Back restores the previous report and its state. [Expanded chart checkpoint](android/specification/passdowns/21-full-screen-charts.md)
 
+The [Analytics history mockups](android/specification/chapters/03-reports-data/03-02-report-screens.md#analytics-with-one-six-or-eleven-months) show one, six, and eleven months in Seasonality and Cumulative Usage. The [full-year Heatmap](android/specification/chapters/03-reports-data/03-02-report-screens.md#entire-leave-year-in-the-heatmap) shows every date at once in landscape and all months in a scrollable portrait view. [History checkpoint](android/specification/passdowns/22-analytics-history-mockups.md)
+
 Close implementation milestones through the [QA gates and retest loop](android/specification/chapters/05-quality/05-02-quality-gates.md). Use the [QA report template](android/qa/reports/template.md) and link the separate AI review.
 
 [Organization checkpoint](android/specification/passdowns/18-project-organization.md) records the chapter moves, review destinations, and smaller-model implementation briefs.

diff --git a/android/specification/passdowns/22-analytics-history-mockups.md b/android/specification/passdowns/22-analytics-history-mockups.md
@@ -1,0 +1,7 @@
+# Analytics with one, six, or eleven months
+
+The Seasonality and Cumulative Usage mockups show the same synthetic year after one, six, and eleven months. The totals are 10, 52, and 94 h. Later dates retain their place on the axis. The chart distinguishes a recorded zero from a date beyond the cutoff and carries its values into full-screen mode. [Six annotated mockups](../chapters/03-reports-data/03-02-report-screens.md#analytics-with-one-six-or-eleven-months)
+
+The three recorded totals and the June scheduled variant were checked against the desktop calculation functions. I13 verifies the Seasonality boards. I14 verifies Cumulative Usage on the same fixture, including a separate scheduled activity case. [History fixture and acceptance](../verification/acceptance-tests.md#analytics-history-fixture)
+
+The Heatmap defaults to the whole leave year, shows scrollable months in portrait, and fits every actual date at once in full-screen landscape on supported phones. [Year Heatmap mockups](../chapters/03-reports-data/03-02-report-screens.md#entire-leave-year-in-the-heatmap)
